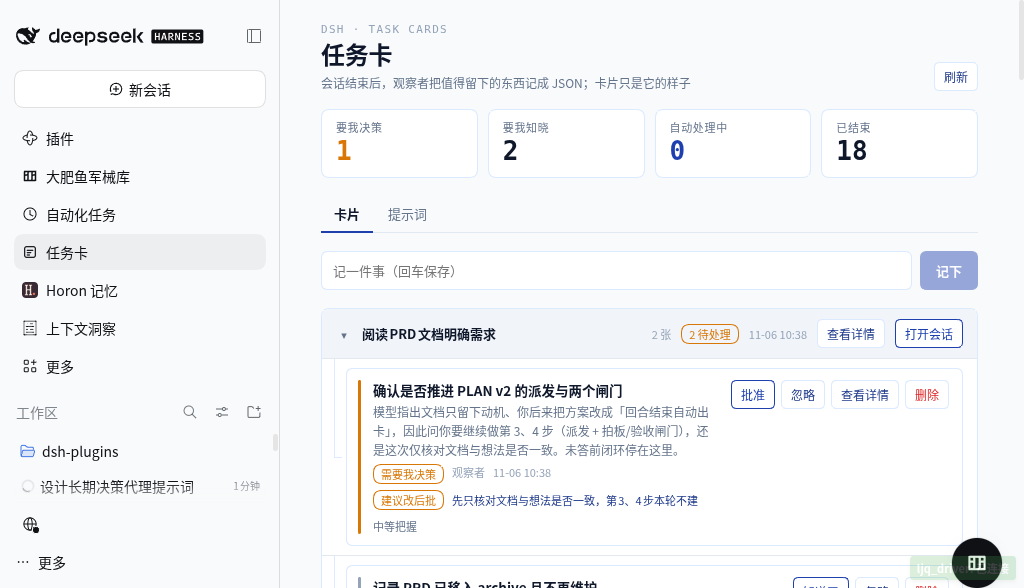
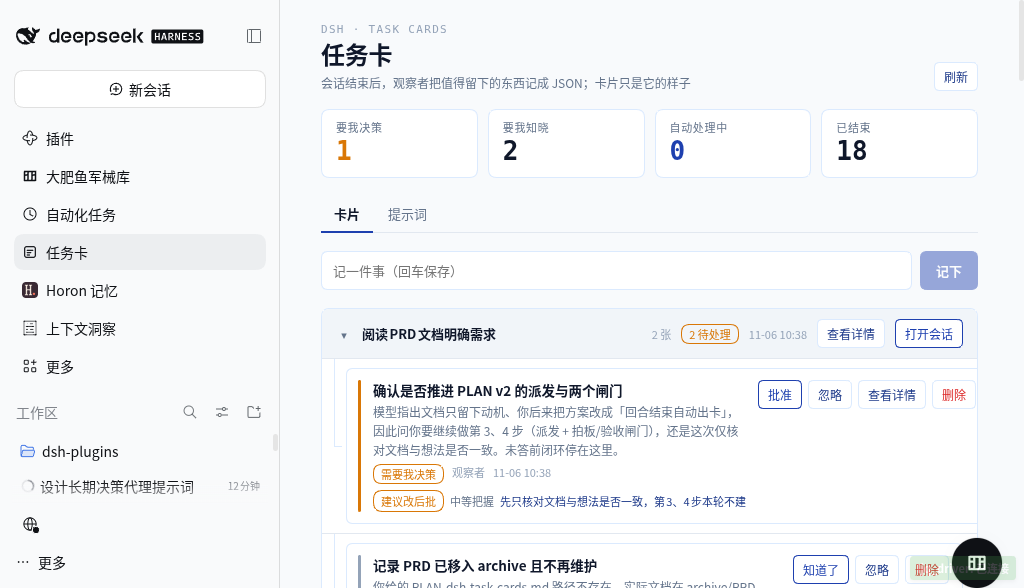
fix(client): 卡片行票拟压成一行，窄面板里不再折成三行
原来是 flex-wrap: wrap，面板只有 350px 宽时「结论 chip / 摘要 / 把握」各占一行，
把卡片撑高。改成单行：chip 与把握 nowrap 固定，摘要吃剩余宽度并省略；截图已更新。

Changed region(s): [[0.3125, 0.8265, 0.9375, 1.0], [0.3438, 0.6429, 0.9688, 0.7959]]

diff --git a/src/client/styles.ts b/src/client/styles.ts
@@ -141,9 +141,13 @@ body[data-ds-dark-theme] .dtc-page {
 .dtc-chip.is-modify { color: var(--dtc-accent); border-color: var(--dtc-accent); }
 .dtc-chip.is-wait { color: var(--dtc-primary); border-color: var(--dtc-primary); }
 .dtc-chip.is-pending { color: var(--dtc-faint); border-style: dashed; }
-.dtc-advice-line { margin-top: 6px; display: flex; align-items: center; gap: 8px; flex-wrap: wrap; font-size: 11px; }
-.dtc-advice-line-summary { color: var(--dtc-text); max-width: 46ch; overflow: hidden; text-overflow: ellipsis; white-space: nowrap; }
-.dtc-advice-line-confidence { color: var(--dtc-muted); }
+/* 单行：结论 chip + 把握固定宽度，摘要吃掉剩余宽度并省略（窄面板里也别折成三行）。 */
+.dtc-advice-line { margin-top: 6px; display: flex; align-items: center; gap: 6px; flex-wrap: nowrap;
+  min-width: 0; font-size: 11px; line-height: 18px; }
+.dtc-advice-line-summary { flex: 1 1 auto; min-width: 0; color: var(--dtc-text); overflow: hidden;
+  text-overflow: ellipsis; white-space: nowrap; }
+.dtc-advice-line-confidence { flex: 0 0 auto; color: var(--dtc-muted); white-space: nowrap; }
+.dtc-advice-line .dtc-chip { flex: 0 0 auto; white-space: nowrap; }
 /* ── 票拟：详情弹窗区块 ─────────────────────────────────── */
 .dtc-advice { margin: 0; padding: 12px 14px; border: 1px solid var(--dtc-accent); border-radius: 10px;
   background: var(--dtc-surface); display: flex; flex-direction: column; gap: 10px; }
